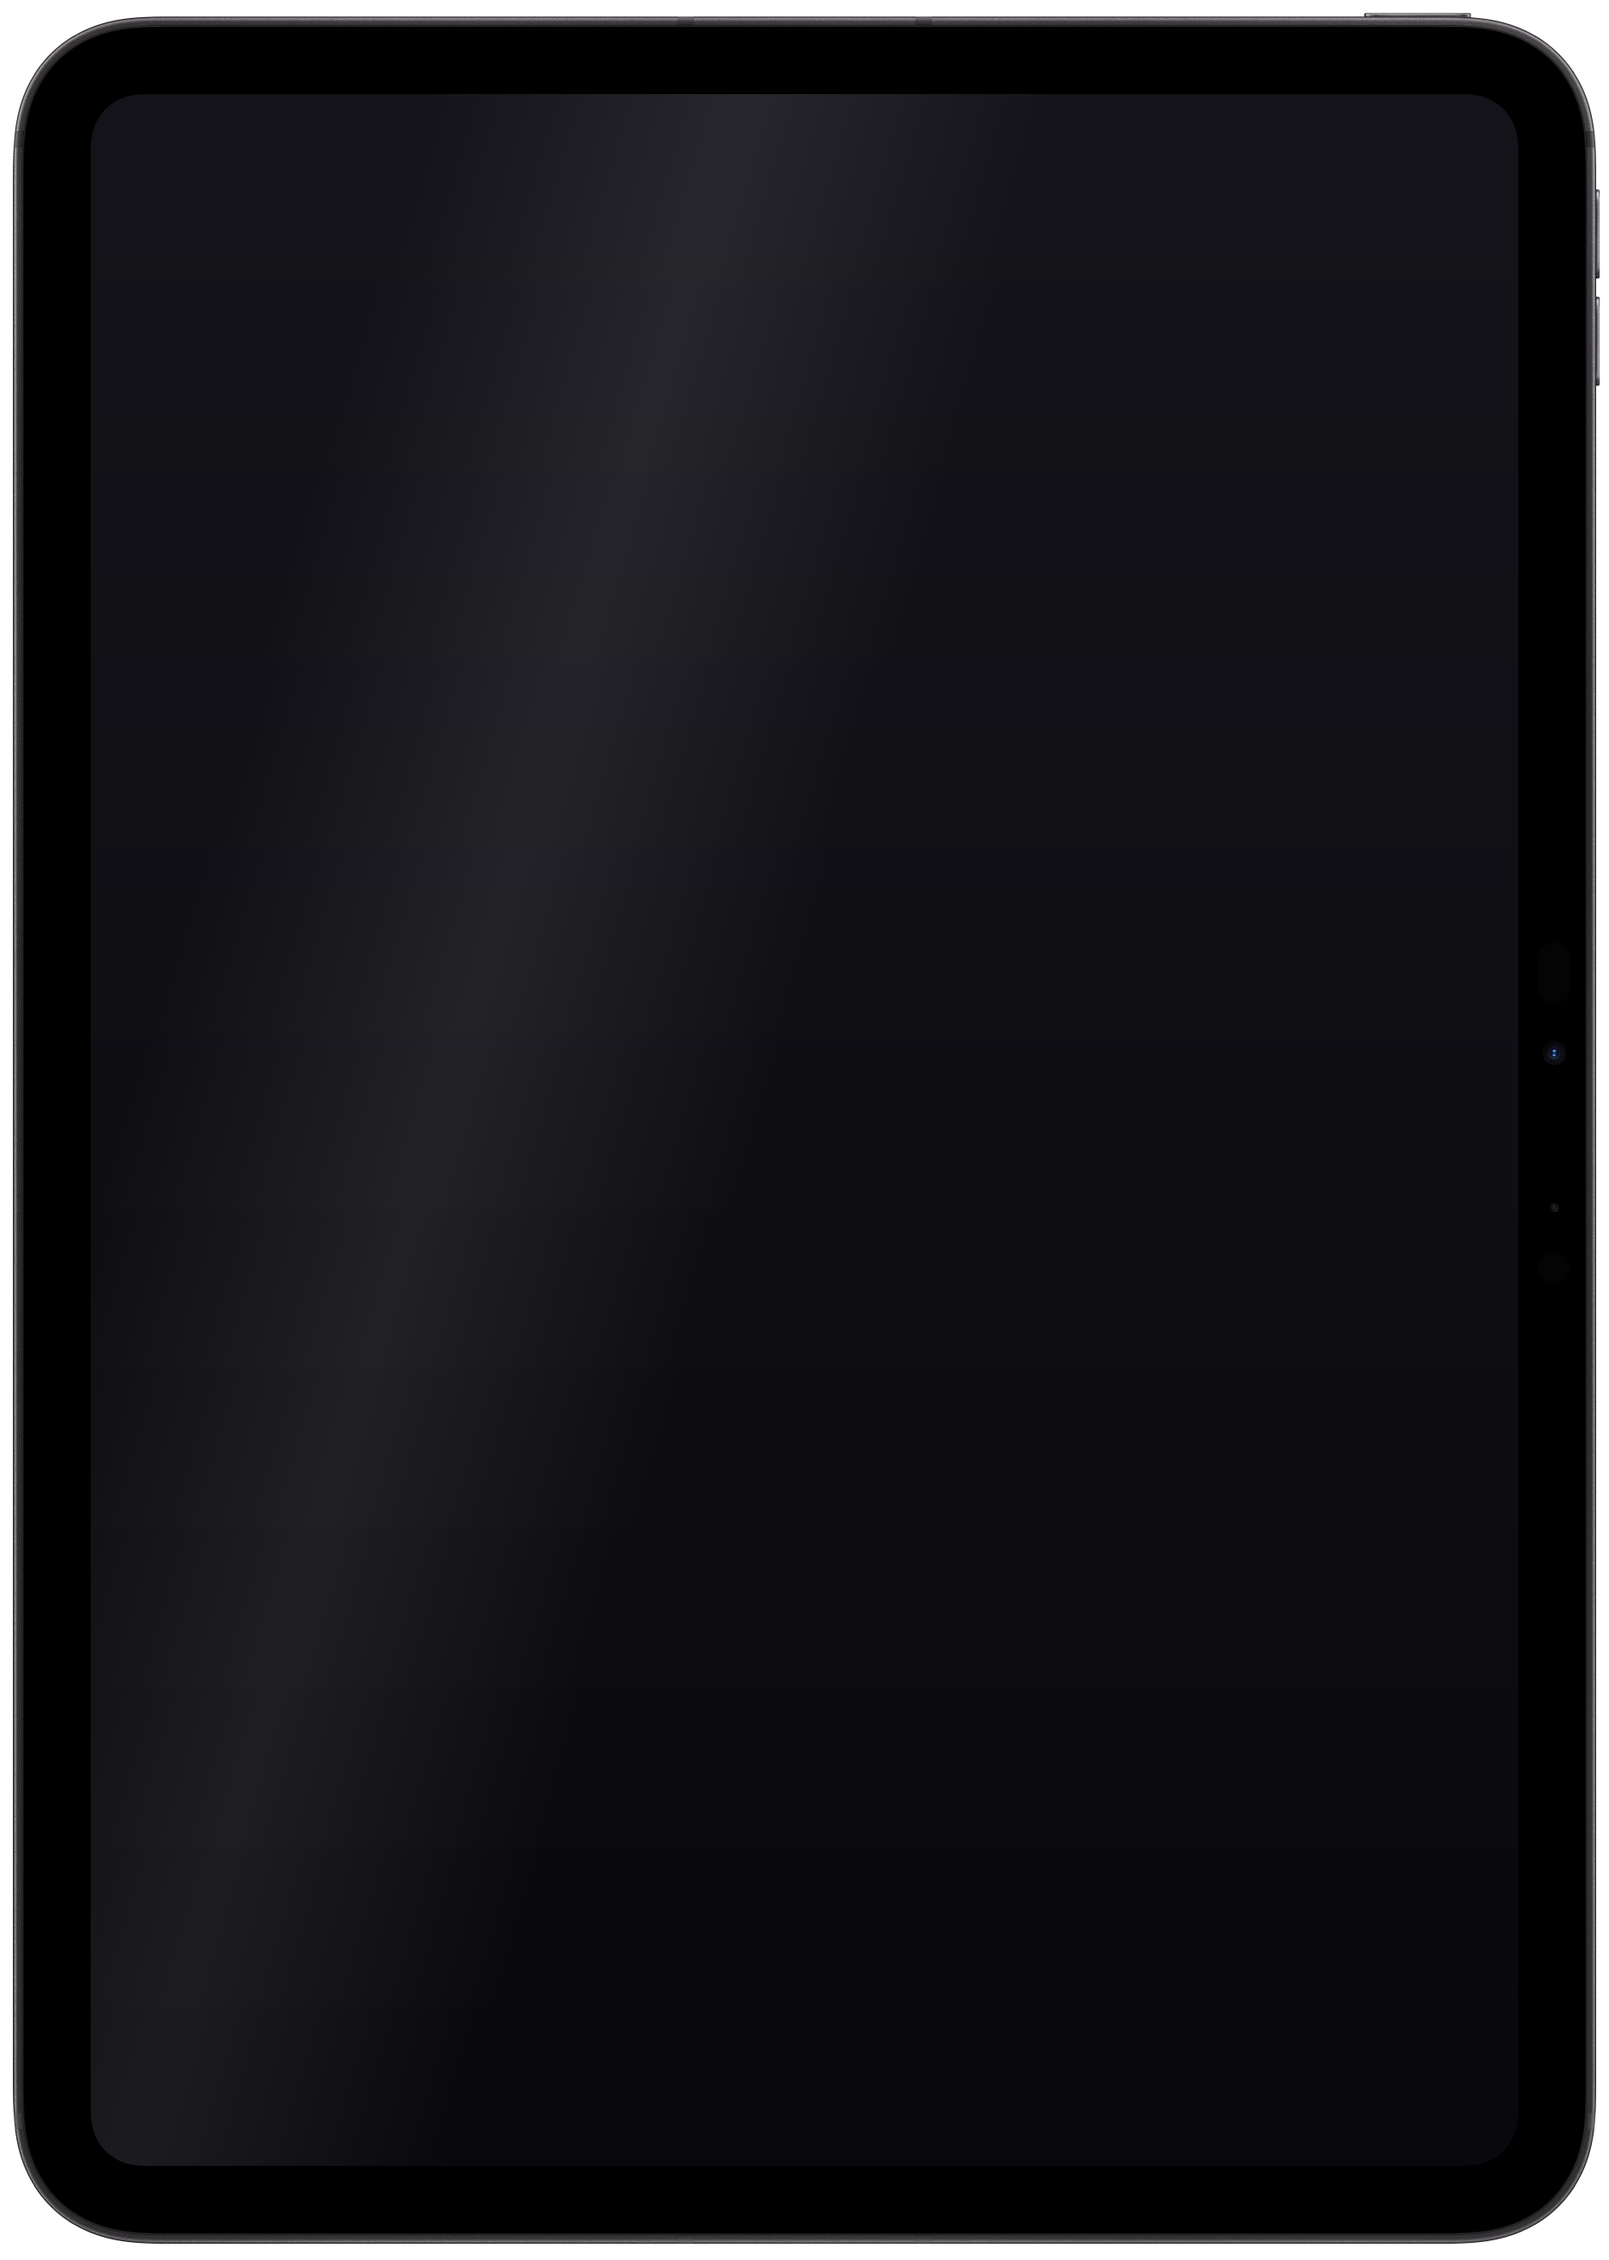
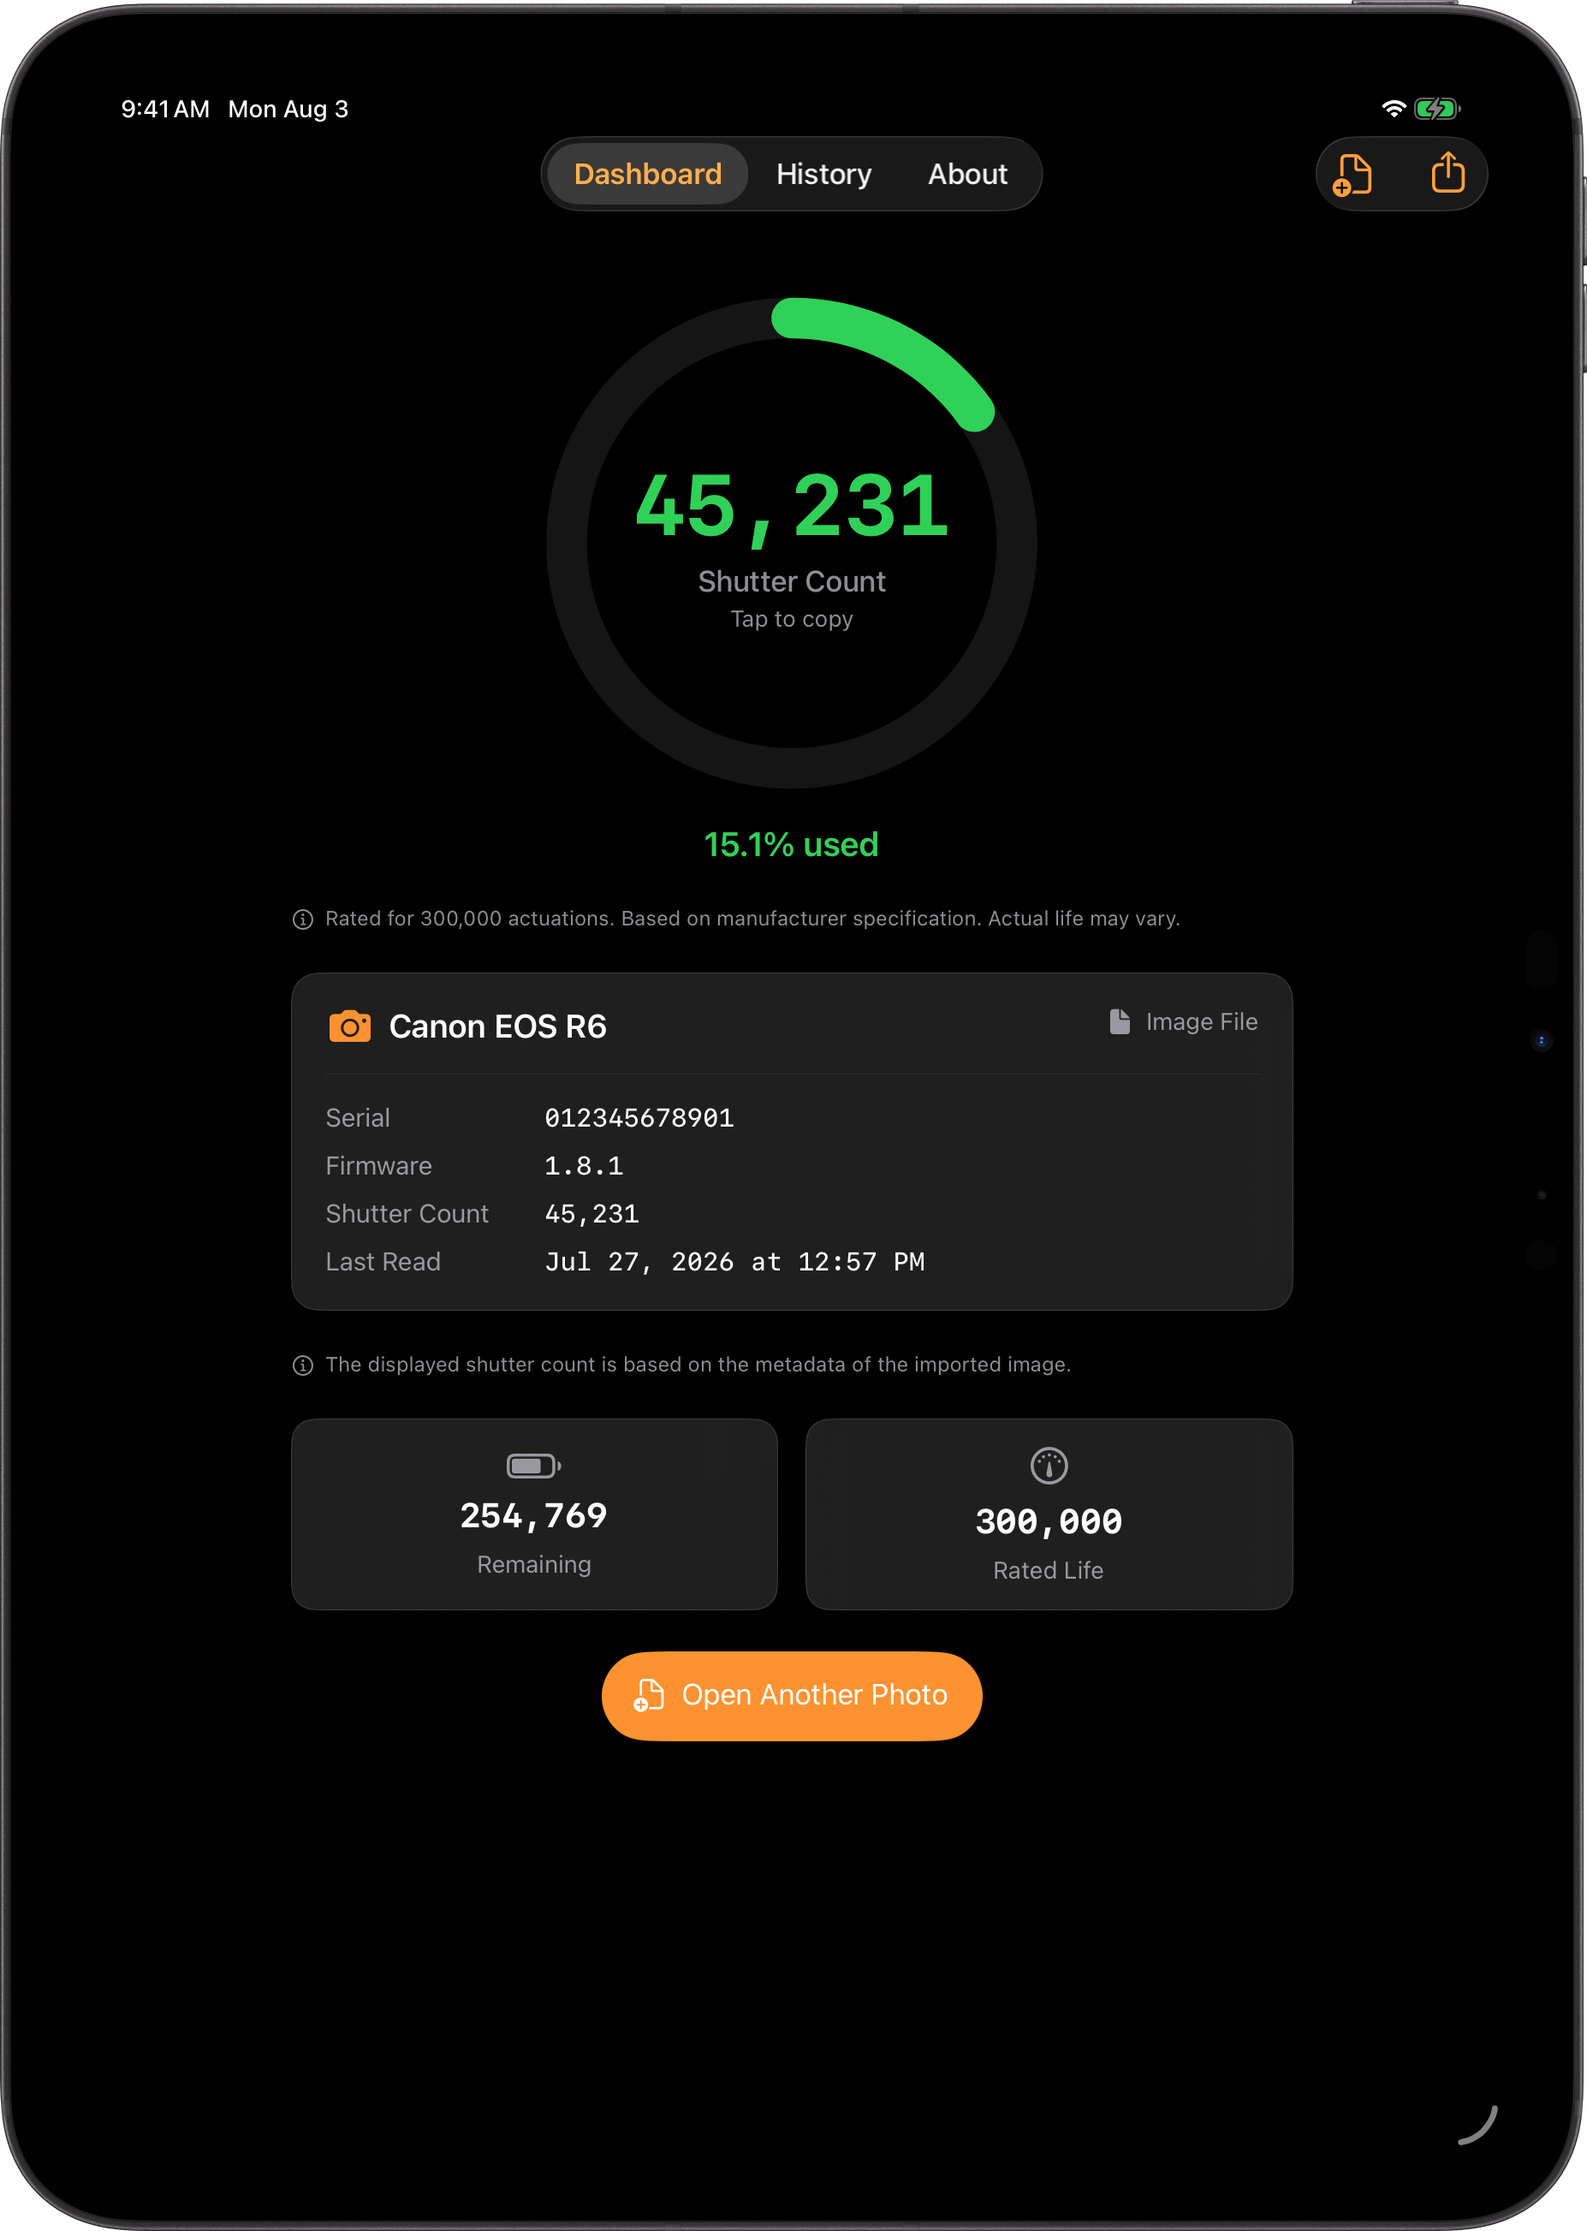
site(shutterlife): the screenshots claimed five brands while the text said seven
sl-01 showed only Canon, Nikon, Sony, Fujifilm, Pentax -- Leica and Ricoh
were missing, on a paid app, next to prose naming all seven. The app itself
has been correct since 1.0.4; the picture was the stale part.

sl-02 and sl-03 turned out stale too: old two-line camera naming and a
button label that no longer exists.

The iPad card showed an empty device -- no app content at all, because no
bare iPad screenshot ever existed. Now filled.

Adds tools/frame-screenshot.py so the bezel recipe stops living only in a
journal entry. Its header documents the two approaches that failed.

Still open: sl-04 needs a scrolled capture, and the Mac composite stays
empty -- the macOS app builds and launches but shows no window.

diff --git a/tools/frame-screenshot.py b/tools/frame-screenshot.py
@@ -1,0 +1,230 @@
+#!/usr/bin/env python3
+"""
+frame-screenshot.py — drop a raw app screenshot into an Apple device bezel PNG.
+
+WHAT THIS IS FOR
+-----------------
+apps/screenshots/framed/*.png on this site are studio-website marketing shots:
+a plain in-app screenshot pasted inside an official Apple device bezel image
+(iPhone / iPad / Mac), so the frame renders as a photo-real device. The tool
+that originally produced them (commit 19af936, "overlay screenshots in real
+orange iPhone bezel") was never checked into this repo — only the finished
+PNGs were. This script is the recovered/rebuilt version of that tool, written
+2026-08-03 while fixing an outdated brand list in sl-01.png. Keep it here so
+the next screenshot refresh doesn't require re-deriving the geometry method
+below from scratch again.
+
+SOURCE BEZELS
+-------------
+Official Apple Design Resources, kept locally (not in this repo, not
+versioned) at:
+    /Users/nawiedsyed/DEV/Apple Bezels/<Device>/<Device Variant>.png
+e.g. "Apple Bezels/Iphone 17/iPhone 17 Pro/iPhone 17 Pro - Cosmic Orange - Portrait.png"
+These PNGs are much larger than the final asset (e.g. 1350x2760 for the
+iPhone 17 Pro) with a transparent margin around the phone silhouette, and a
+transparent "hole" where the screen content shows through — including a
+transparent channel through the Dynamic Island notch that connects the
+screen's transparent hole to the outer transparent margin.
+
+Apple's marketing guidelines forbid recoloring, tilting, cropping the device
+silhouette, or adding reflections/gloss to these bezel images. This script
+does none of that: it only trims the fully-transparent margin (a lossless,
+non-destructive crop — the phone silhouette itself is untouched) and pastes
+screenshot content into the existing transparent hole.
+
+GEOMETRY: HOW THE SCREEN REGION IS FOUND
+-----------------------------------------
+Two naive approaches were tried first and BOTH FAILED — documented here so
+nobody re-walks into the same trap:
+
+1. Flood fill from a seed pixel inside the screen area, filling contiguous
+   transparent pixels to find the screen's bounding box.
+   FAILS: the Dynamic Island cutout connects the screen's transparent region
+   to the fully-transparent outer margin of the canvas. The flood fill leaks
+   straight out through the notch and floods the entire background, so the
+   "bounding box" it finds is the whole canvas, not the screen.
+
+2. Take the bounding box of all OPAQUE pixels (the phone silhouette) and
+   assume the screen is a fixed inset from that box.
+   FAILS: this overshoots by several pixels because it doesn't account for
+   the actual rounded-corner + notch geometry, and it doesn't handle
+   antialiased edge pixels correctly. In an earlier pass at this problem the
+   screen content ended up ~8px larger than the true hole, so the pasted
+   content overhung the bezel and a dark rectangular sliver was visible
+   past the rounded corners (exactly the defect commit 7d9077f,
+   "remove black corner overhang", had to paper over afterwards for the
+   OLD compositing pipeline).
+
+THE METHOD THAT WORKS: longest contiguous transparent run.
+    - For the screen's X range: scan a row through the vertical MIDDLE of
+      the canvas (safely below the Dynamic Island / above any home
+      indicator or, on Mac, below the menu-bar area) and find the longest
+      unbroken run of alpha==0 pixels. That run's [start, end) is the
+      screen's left/right edge. The middle row never crosses the notch
+      cutout, so this run is exactly the screen hole and nothing else.
+    - For the screen's Y range: scan a COLUMN at roughly 1/4 of the canvas
+      width (off-center, so it avoids the Dynamic Island / camera notch
+      which sits centered at the top) and find the longest unbroken run of
+      alpha==0 pixels. That gives the screen's top/bottom edge.
+    - On Mac bezels the same method still works: below the screen is the
+      opaque keyboard/trackpad deck, which breaks the transparent run
+      exactly at the screen's bottom edge, same as the phone case.
+
+This was verified two independent ways before trusting it:
+    a) Applied directly to the raw Apple bezel PNG.
+    b) Cross-checked against the pixel-diff bounding box between two
+       EXISTING framed screenshots that share the same bezel but different
+       content (sl-01.png vs sl-02.png) — the diff region matched the
+       transparent-run measurement exactly, with zero differing pixels
+       outside it.
+
+USAGE
+-----
+    python3 tools/frame-screenshot.py \
+        --bezel "/Users/nawiedsyed/DEV/Apple Bezels/Iphone 17/iPhone 17 Pro/iPhone 17 Pro - Cosmic Orange - Portrait.png" \
+        --content path/to/raw_screenshot.png \
+        --out apps/screenshots/framed/sl-01.png
+
+Optional flags:
+    --mid-row-frac FLOAT     row (as a fraction of canvas height) used to
+                              find the screen's left/right edge. Default 0.5.
+    --quarter-col-frac FLOAT column (as a fraction of canvas width) used to
+                              find the screen's top/bottom edge. Default 0.25.
+    --screen-rect X Y W H    skip auto-detection and use an explicit screen
+                              rect (in the trimmed-canvas coordinate space).
+                              Use this for devices where the default
+                              mid-row/quarter-col probes land on a bezel
+                              landmark (camera bump, speaker grille, etc.)
+                              instead of open canvas.
+    --alpha-threshold INT    alpha value at/below which a pixel counts as
+                              "transparent" for the run search. Default 0
+                              (only literally fully-transparent pixels).
+
+The script always prints the trimmed canvas size and the detected screen
+rect — check that output against the target device's known screen
+resolution (e.g. iPhone 17 Pro = 1206x2622 px, 3x) before trusting the
+result blindly.
+"""
+
+import argparse
+import sys
+from PIL import Image
+
+
+def longest_transparent_run(values, threshold):
+    """Return (start, end_exclusive, length) of the longest contiguous run
+    of positions where alpha <= threshold."""
+    best = (0, 0, 0)
+    cur_start = None
+    for i, v in enumerate(values):
+        transparent = v <= threshold
+        if transparent:
+            if cur_start is None:
+                cur_start = i
+        else:
+            if cur_start is not None:
+                length = i - cur_start
+                if length > best[2]:
+                    best = (cur_start, i, length)
+                cur_start = None
+    if cur_start is not None:
+        length = len(values) - cur_start
+        if length > best[2]:
+            best = (cur_start, len(values), length)
+    return best
+
+
+def trim_transparent_margin(bezel: Image.Image) -> Image.Image:
+    """Crop the fully-transparent margin around the phone/tablet/laptop
+    silhouette. This is a lossless crop of empty canvas only — the device
+    artwork itself is never touched, resized, or resampled."""
+    alpha = bezel.getchannel("A")
+    bbox = alpha.getbbox()
+    if bbox is None:
+        raise ValueError("Bezel image has no opaque pixels at all — wrong file?")
+    return bezel.crop(bbox)
+
+
+def detect_screen_rect(canvas: Image.Image, mid_row_frac: float,
+                        quarter_col_frac: float, alpha_threshold: int):
+    w, h = canvas.size
+    alpha = canvas.getchannel("A")
+    pixels = alpha.load()
+
+    row_y = int(h * mid_row_frac)
+    row_vals = [pixels[x, row_y] for x in range(w)]
+    x0, x1, xlen = longest_transparent_run(row_vals, alpha_threshold)
+    if xlen == 0:
+        raise ValueError(
+            f"No transparent run found in row y={row_y}. Try a different "
+            f"--mid-row-frac (current probe may be crossing a notch/camera "
+            f"bump or landing outside the screen entirely)."
+        )
+
+    col_x = int(w * quarter_col_frac)
+    col_vals = [pixels[col_x, y] for y in range(h)]
+    y0, y1, ylen = longest_transparent_run(col_vals, alpha_threshold)
+    if ylen == 0:
+        raise ValueError(
+            f"No transparent run found in column x={col_x}. Try a different "
+            f"--quarter-col-frac."
+        )
+
+    return (x0, y0, x1 - x0, y1 - y0)
+
+
+def compose(bezel_path, content_path, out_path, mid_row_frac, quarter_col_frac,
+            alpha_threshold, screen_rect_override):
+    bezel_raw = Image.open(bezel_path).convert("RGBA")
+    canvas = trim_transparent_margin(bezel_raw)
+    print(f"Trimmed bezel canvas: {canvas.size[0]}x{canvas.size[1]} "
+          f"(raw bezel was {bezel_raw.size[0]}x{bezel_raw.size[1]})")
+
+    if screen_rect_override:
+        sx, sy, sw, sh = screen_rect_override
+    else:
+        sx, sy, sw, sh = detect_screen_rect(
+            canvas, mid_row_frac, quarter_col_frac, alpha_threshold
+        )
+    print(f"Screen rect: x={sx} y={sy} w={sw} h={sh} "
+          f"(aspect {sw / sh:.4f})")
+
+    content = Image.open(content_path).convert("RGBA")
+    if content.size != (sw, sh):
+        print(f"Resizing content {content.size[0]}x{content.size[1]} -> "
+              f"{sw}x{sh} (Lanczos)")
+        content = content.resize((sw, sh), Image.LANCZOS)
+
+    result = Image.new("RGBA", canvas.size, (0, 0, 0, 0))
+    result.paste(content, (sx, sy))
+    result = Image.alpha_composite(result, canvas)
+
+    result.save(out_path)
+    print(f"Wrote {out_path} ({result.size[0]}x{result.size[1]})")
+
+
+def parse_args():
+    p = argparse.ArgumentParser(description=__doc__,
+                                 formatter_class=argparse.RawDescriptionHelpFormatter)
+    p.add_argument("--bezel", required=True, help="Path to the raw Apple bezel PNG")
+    p.add_argument("--content", required=True, help="Path to the raw app screenshot to paste in")
+    p.add_argument("--out", required=True, help="Output path for the framed PNG")
+    p.add_argument("--mid-row-frac", type=float, default=0.5)
+    p.add_argument("--quarter-col-frac", type=float, default=0.25)
+    p.add_argument("--alpha-threshold", type=int, default=0)
+    p.add_argument("--screen-rect", type=int, nargs=4, metavar=("X", "Y", "W", "H"),
+                    default=None,
+                    help="Explicit screen rect in trimmed-canvas coordinates; "
+                         "skips auto-detection")
+    return p.parse_args()
+
+
+def main():
+    args = parse_args()
+    compose(args.bezel, args.content, args.out,
+             args.mid_row_frac, args.quarter_col_frac,
+             args.alpha_threshold, args.screen_rect)
+
+
+if __name__ == "__main__":
+    sys.exit(main())
